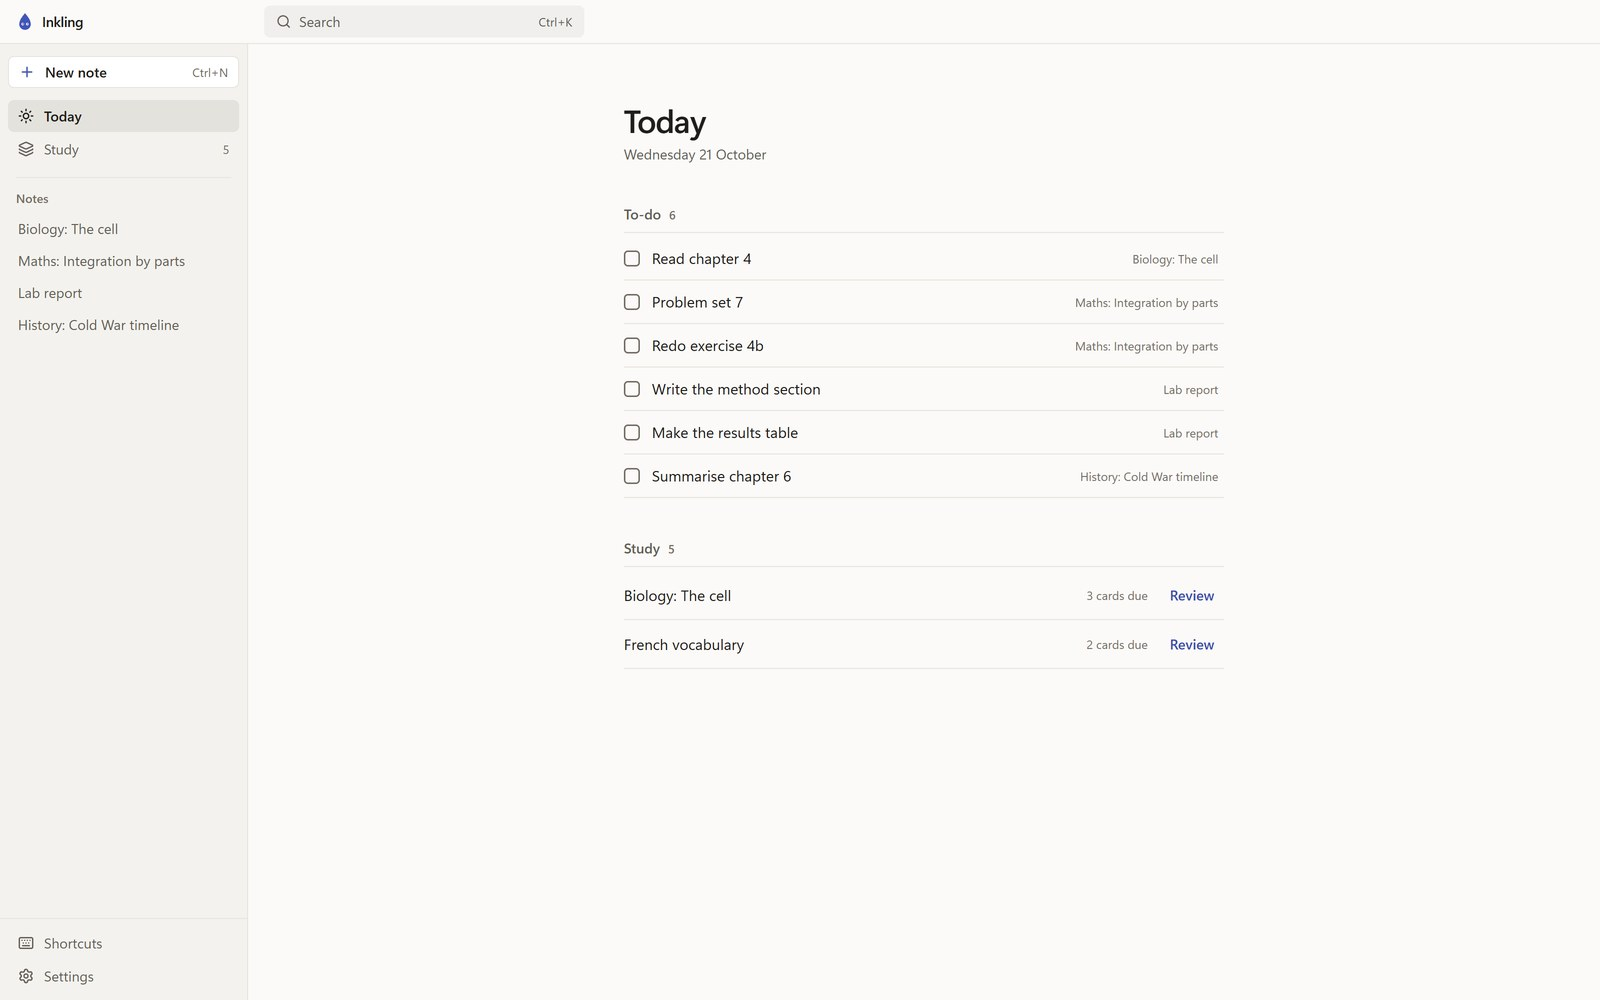
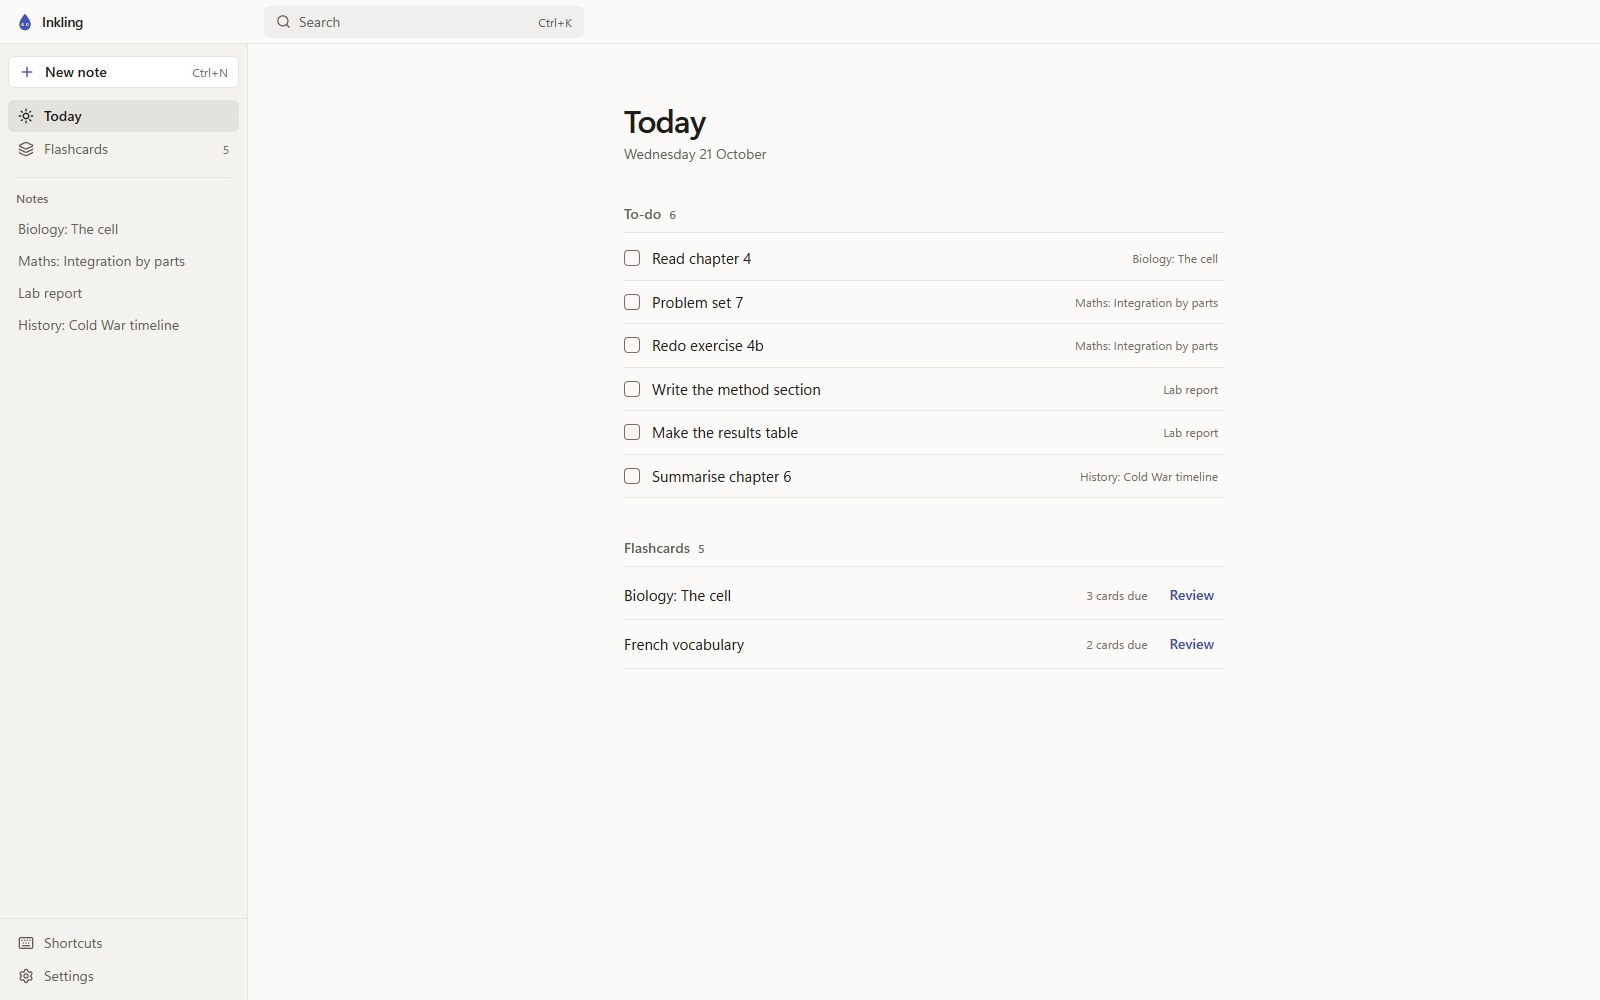
Call Inkling's Study page Flashcards
Retakes the four Inkling pictures and counts the 17 smoke checks.

diff --git a/src/constants/projects/inkling.ts b/src/constants/projects/inkling.ts
@@ -68,7 +68,7 @@ const en: LocalizedContent = {
     {
       heading: "A redesign that mostly took things out",
       body: [
-        "With v0.8.0 Inkling became a calmer app built around notes. The Tasks tab, Grades, Progress, the focus timer, the streak, the deck import and every setting except the theme went. To-dos from the old Tasks tab moved into a note of their own, and no note, card or review was lost. What is left is one sidebar with New note, Today, Study, the notes, Shortcuts and Settings, in a light and a dark theme.",
+        "With v0.8.0 Inkling became a calmer app built around notes. The Tasks tab, Grades, Progress, the focus timer, the streak, the deck import and every setting except the theme went. To-dos from the old Tasks tab moved into a note of their own, and no note, card or review was lost. What is left is one sidebar with New note, Today, Flashcards, the notes, Shortcuts and Settings, in a light and a dark theme.",
         "An earlier pass, v0.6.0, had already taken the source from about 9.8k lines to 6.5k, and loading the editor only when a note opens took the startup bundle from 1881 kB to 819 kB.",
       ],
       figure: 3,
@@ -91,13 +91,13 @@ const en: LocalizedContent = {
   captions: [
     "The Today page: six open to-dos from four notes, and two decks with cards due.",
     "A note in the editor: Term :: Definition lines that become flashcards, and checkboxes that are to-dos.",
-    "A review in Study: the answer is showing, with the next interval under each of the four ratings.",
+    "A review on the Flashcards page: the answer is showing, with the next interval under each of the four ratings.",
     "The dark theme on a maths note with two open to-dos.",
   ],
   tags: ["Electron", "React", "TypeScript", "SQLite", "FSRS"],
   stats: [
     { value: "10", label: "MCP tools" },
-    { value: "12", label: "end-to-end smoke checks" },
+    { value: "17", label: "end-to-end smoke checks" },
     { value: "26", label: "IPC handlers" },
     { value: "3", label: "platforms" },
   ],
@@ -136,7 +136,7 @@ const de: LocalizedContent = {
     {
       heading: "Eine Überarbeitung, die vor allem Dinge herausnahm",
       body: [
-        "Mit v0.8.0 wurde Inkling zu einer ruhigeren App rund um Notizen. Der Tab Aufgaben, Noten, Fortschritt, der Fokus-Timer, die Serie, der Stapel-Import und jede Einstellung ausser dem Theme fielen weg. To-dos aus dem alten Tab Aufgaben zogen in eine eigene Notiz um, und keine Notiz, Karte oder Wiederholung ging verloren. Geblieben ist eine Seitenleiste mit Neue Notiz, Heute, Lernen, den Notizen, Tastenkürzeln und Einstellungen, in einem hellen und einem dunklen Theme.",
+        "Mit v0.8.0 wurde Inkling zu einer ruhigeren App rund um Notizen. Der Tab Aufgaben, Noten, Fortschritt, der Fokus-Timer, die Serie, der Stapel-Import und jede Einstellung ausser dem Theme fielen weg. To-dos aus dem alten Tab Aufgaben zogen in eine eigene Notiz um, und keine Notiz, Karte oder Wiederholung ging verloren. Geblieben ist eine Seitenleiste mit Neue Notiz, Heute, Karteikarten, den Notizen, Tastenkürzeln und Einstellungen, in einem hellen und einem dunklen Theme.",
         "Schon v0.6.0 hatte den Quellcode von etwa 9.8k auf 6.5k Zeilen gebracht, und weil der Editor erst beim Öffnen einer Notiz geladen wird, fiel das Start-Bundle von 1881 kB auf 819 kB.",
       ],
       figure: 3,
@@ -159,13 +159,13 @@ const de: LocalizedContent = {
   captions: [
     "Die Heute-Seite: sechs offene To-dos aus vier Notizen und zwei Stapel mit fälligen Karten.",
     "Eine Notiz im Editor: Zeilen Begriff :: Definition, die zu Karteikarten werden, und Checkboxen, die To-dos sind.",
-    "Eine Wiederholung auf der Lernseite: Die Antwort ist aufgedeckt, unter jeder der vier Bewertungen steht das nächste Intervall.",
+    "Eine Wiederholung auf der Seite Karteikarten: Die Antwort ist aufgedeckt, unter jeder der vier Bewertungen steht das nächste Intervall.",
     "Das dunkle Theme auf einer Mathe-Notiz mit zwei offenen To-dos.",
   ],
   tags: ["Electron", "React", "TypeScript", "SQLite", "FSRS"],
   stats: [
     { value: "10", label: "MCP-Werkzeuge" },
-    { value: "12", label: "End-to-End-Prüfungen" },
+    { value: "17", label: "End-to-End-Prüfungen" },
     { value: "26", label: "IPC-Handler" },
     { value: "3", label: "Plattformen" },
   ],
@@ -204,7 +204,7 @@ const fr: LocalizedContent = {
     {
       heading: "Une refonte qui a surtout retiré des choses",
       body: [
-        "Avec v0.8.0, Inkling est devenue une app plus calme, construite autour des notes. L'onglet Tâches, les notes scolaires, la page Progrès, le minuteur de concentration, la série, l'import de paquets et tous les réglages sauf le thème sont partis. Les tâches de l'ancien onglet ont rejoint une note à part, et aucune note, carte ni révision n'a été perdue. Il reste une barre latérale avec Nouvelle note, Aujourd'hui, Étude, les notes, les raccourcis et les réglages, dans un thème clair et un thème sombre.",
+        "Avec v0.8.0, Inkling est devenue une app plus calme, construite autour des notes. L'onglet Tâches, les notes scolaires, la page Progrès, le minuteur de concentration, la série, l'import de paquets et tous les réglages sauf le thème sont partis. Les tâches de l'ancien onglet ont rejoint une note à part, et aucune note, carte ni révision n'a été perdue. Il reste une barre latérale avec Nouvelle note, Aujourd'hui, Cartes, les notes, les raccourcis et les réglages, dans un thème clair et un thème sombre.",
         "Une passe plus ancienne, v0.6.0, avait déjà fait passer le code source d'environ 9,8k lignes à 6,5k, et charger l'éditeur seulement à l'ouverture d'une note avait fait passer le bundle de démarrage de 1881 kB à 819 kB.",
       ],
       figure: 3,
@@ -227,13 +227,13 @@ const fr: LocalizedContent = {
   captions: [
     "La page Aujourd'hui : six tâches ouvertes tirées de quatre notes, et deux paquets avec des cartes à réviser.",
     "Une note dans l'éditeur : des lignes Terme :: Définition qui deviennent des cartes, et des cases à cocher qui sont des tâches.",
-    "Une révision dans la page Étude : la réponse est affichée, avec le prochain intervalle sous chacun des quatre choix.",
+    "Une révision dans la page Cartes : la réponse est affichée, avec le prochain intervalle sous chacun des quatre choix.",
     "Le thème sombre sur une note de maths avec deux tâches ouvertes.",
   ],
   tags: ["Electron", "React", "TypeScript", "SQLite", "FSRS"],
   stats: [
     { value: "10", label: "outils MCP" },
-    { value: "12", label: "vérifications de bout en bout" },
+    { value: "17", label: "vérifications de bout en bout" },
     { value: "26", label: "gestionnaires IPC" },
     { value: "3", label: "plateformes" },
   ],
@@ -272,7 +272,7 @@ const zh: LocalizedContent = {
     {
       heading: "一次主要在做减法的改版",
       body: [
-        "从 v0.8.0 起，Inkling 变成了一个围绕笔记的、更安静的应用。“任务”标签、成绩、进度、专注计时器、连续天数、卡组导入，以及除主题以外的所有设置都拿掉了。旧“任务”标签里的待办搬进了一篇单独的笔记，没有丢掉任何笔记、卡片或复习记录。留下来的是一个侧栏，里面有“新建笔记”、“今天”、“学习”、所有笔记、“快捷键”和“设置”，配一套浅色和一套深色主题。",
+        "从 v0.8.0 起，Inkling 变成了一个围绕笔记的、更安静的应用。“任务”标签、成绩、进度、专注计时器、连续天数、卡组导入，以及除主题以外的所有设置都拿掉了。旧“任务”标签里的待办搬进了一篇单独的笔记，没有丢掉任何笔记、卡片或复习记录。留下来的是一个侧栏，里面有“新建笔记”、“今天”、“抽认卡”、所有笔记、“快捷键”和“设置”，配一套浅色和一套深色主题。",
         "更早的 v0.6.0 已经把源代码从大约 9.8k 行减到 6.5k 行，编辑器改成打开笔记时才加载，启动包从 1881 kB 降到 819 kB。",
       ],
       figure: 3,
@@ -295,13 +295,13 @@ const zh: LocalizedContent = {
   captions: [
     "“今天”页面：来自四篇笔记的六个未完成待办，以及两个有到期卡片的卡组。",
     "编辑器里的一篇笔记：术语 :: 定义 这样的行会变成抽认卡，复选框就是待办。",
-    "学习页面里的一次复习：答案已经翻开，四个评分按钮下各标着下一次复习的间隔。",
+    "抽认卡页面里的一次复习：答案已经翻开，四个评分按钮下各标着下一次复习的间隔。",
     "深色主题下的一篇数学笔记，里面有两个未完成的待办。",
   ],
   tags: ["Electron", "React", "TypeScript", "SQLite", "FSRS"],
   stats: [
     { value: "10", label: "MCP 工具" },
-    { value: "12", label: "端到端冒烟检查" },
+    { value: "17", label: "端到端冒烟检查" },
     { value: "26", label: "IPC 处理函数" },
     { value: "3", label: "平台" },
   ],
